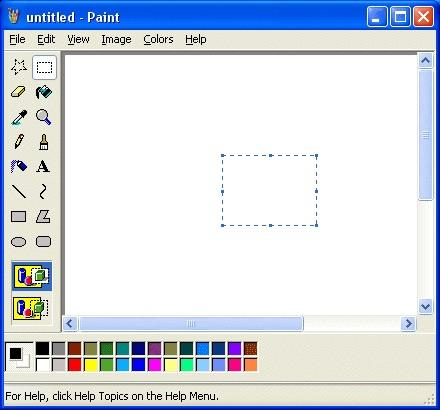
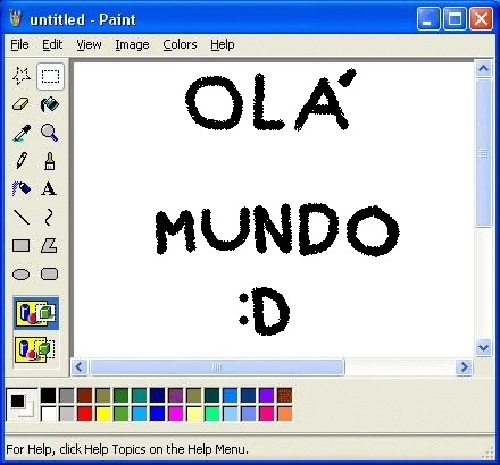
adicionado imagens

diff --git a/assets/styles.css b/assets/styles.css
@@ -127,11 +127,12 @@ a:hover {
 .curcontainer {
   display: flex;
   flex-direction: column;
-  background-color: white;
+  background-color: whitesmoke;
   align-items: center;
   box-shadow: #161b22 3px 3px 10px;
   border: 2px solid #3f3f3f;
   margin: 5px;
+  justify-content: center;
 }
 
 .curtext {
@@ -140,11 +141,45 @@ a:hover {
   font-family: "Times New Roman", Times, serif;
   font-size: 22px;
   color: #3f3f3f;
+  text-align: justify;
+  max-width: 750px;
 }
 
 .cursobre {
   display: flex;
   align-items: center;
   padding: 25px;
-  gap: 25px;
+  gap: 170px;
+}
+
+.curh1 {
+  font-family: "Times New Roman", Times, serif;
+  font-size: 50px;
+  color: #1f2937;
+}
+
+.plancontainer {
+  display: flex;
+  flex-direction: column;
+  background-color: whitesmoke;
+  align-items: flex-start;
+  justify-content: center;
+  box-shadow: #161b22 3px 3px 10px;
+  border: 2px solid #3f3f3f;
+  margin: 5px;
+  padding: 10px;
+}
+
+.planitem {
+  display: grid;
+  grid-template-columns: repeat(2, 1fr);
+  grid-template-rows: repeat(3, 1fr);
+  gap: 20px;
+}
+
+.planestudo {
+  display: grid;
+  grid-template-columns: repeat(2, 1fr);
+  grid-template-rows: repeat(2, 1fr);
+  gap: 20px;
 }
